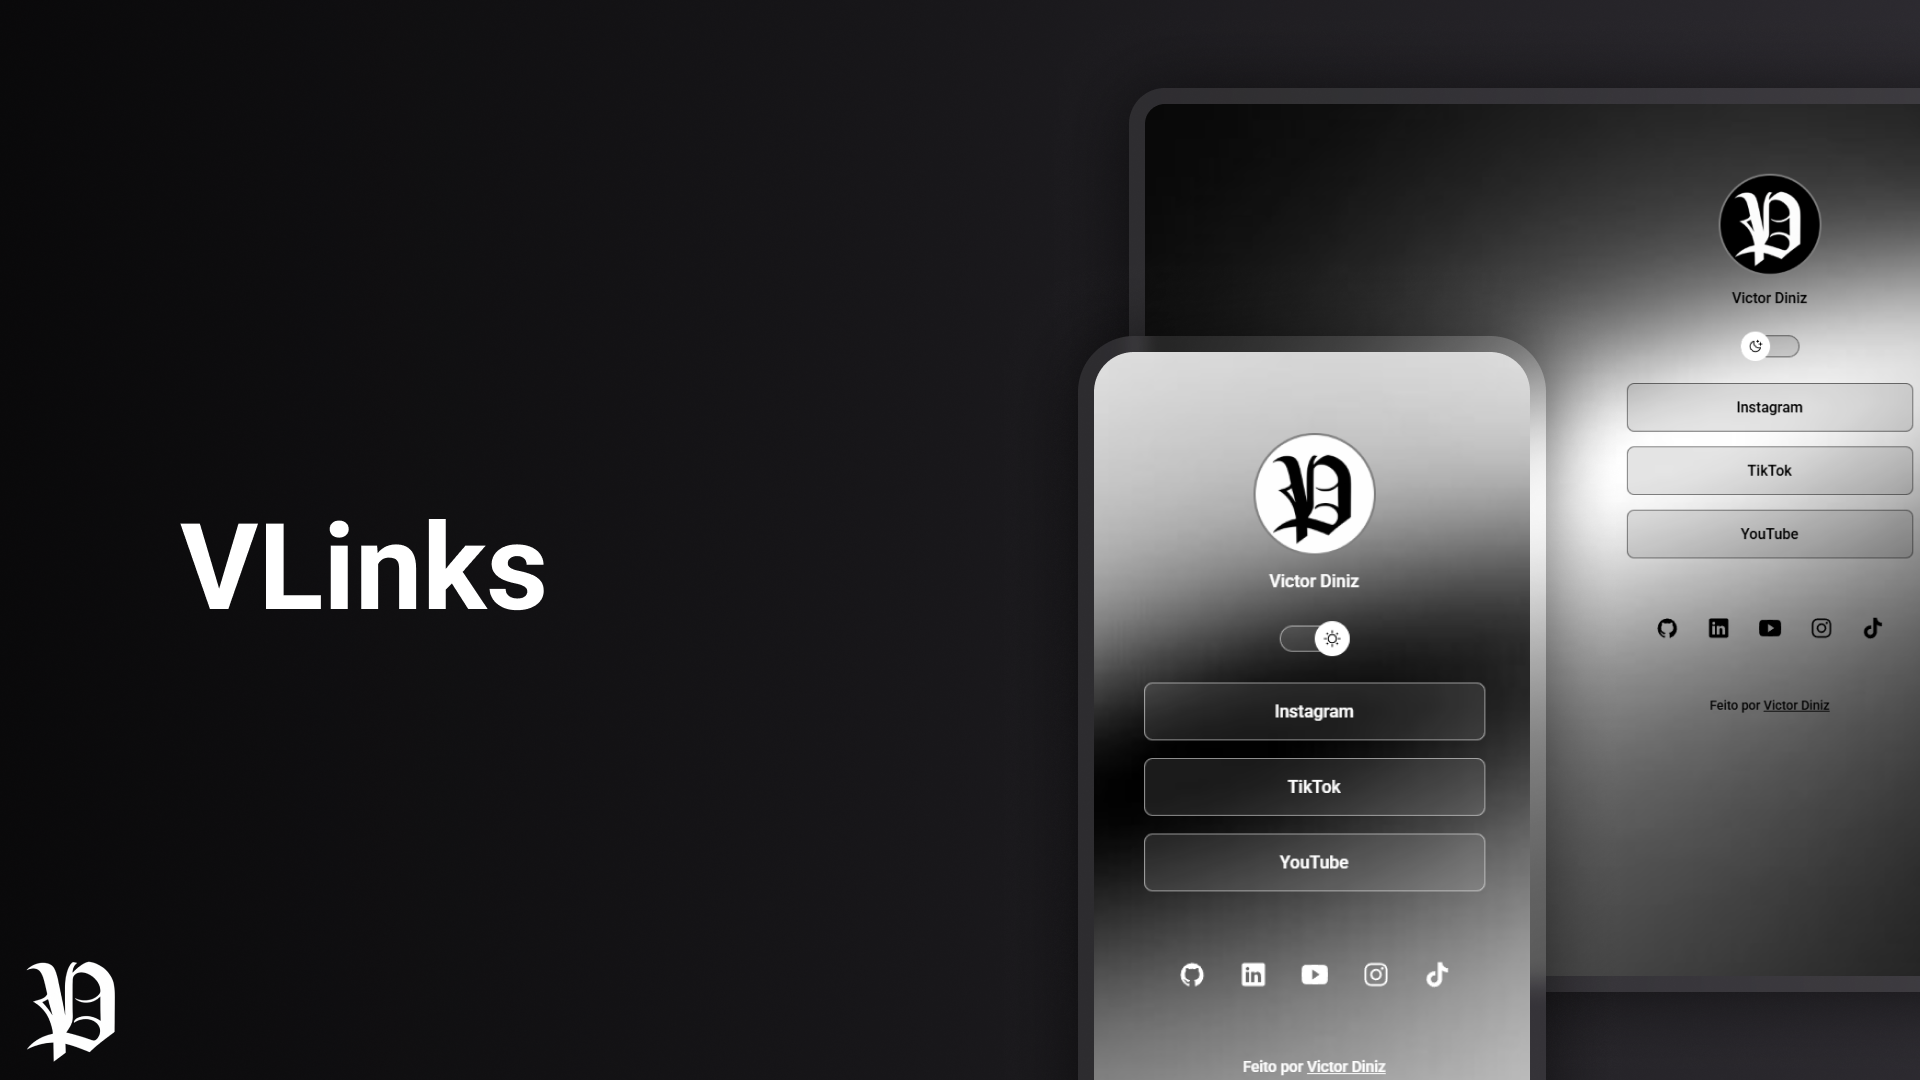
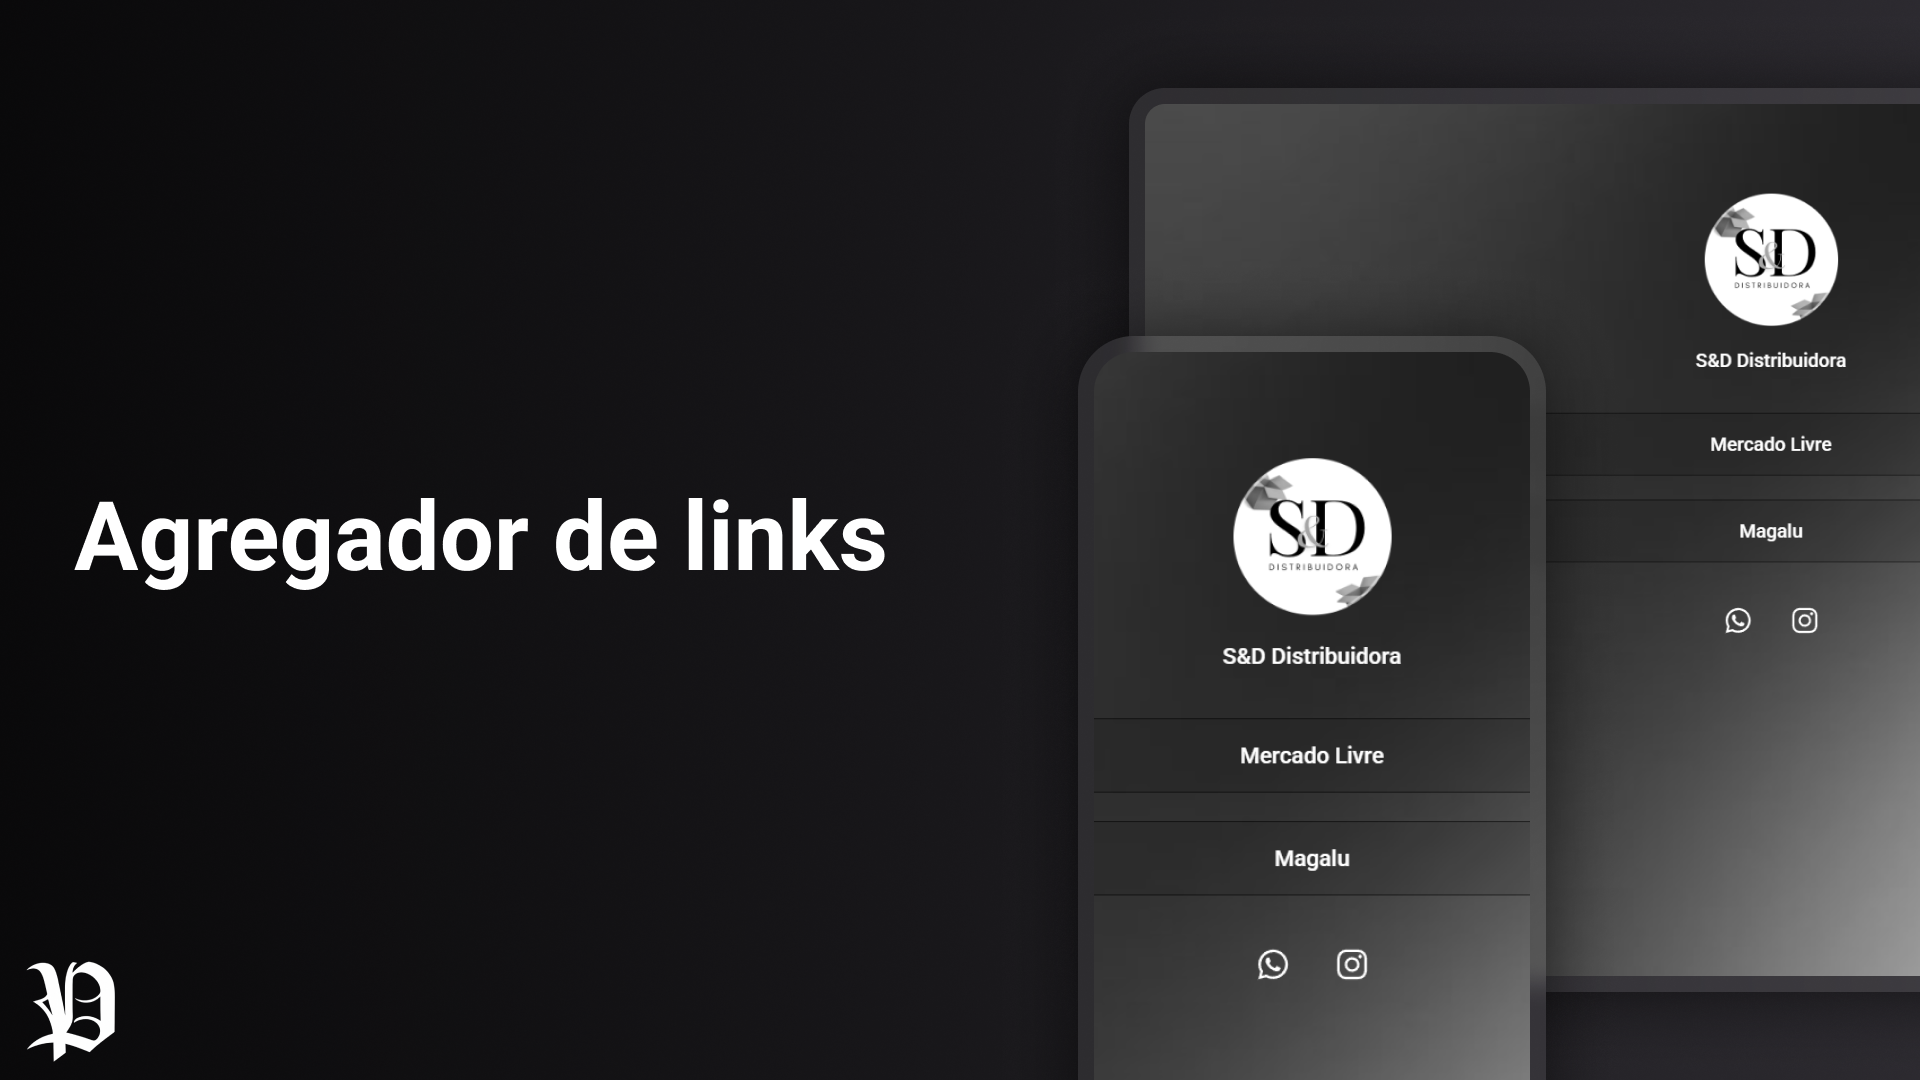
Alterações para a SD

Changed region(s): [[0.5625, 0.0917, 1.0, 1.0], [0.0312, 0.4583, 0.4688, 0.5806], [0.8438, 0.6417, 1.0, 0.9167]]

diff --git a/index.html b/index.html
@@ -1,81 +1,56 @@
-<!DOCTYPE html>
-<html lang="pt-br">
-  <head>
-    <link rel="preconnect" href="https://fonts.googleapis.com" />
-    <link rel="preconnect" href="https://fonts.gstatic.com" crossorigin />
-    <link
-      href="https://fonts.googleapis.com/css2?family=Roboto:wght@500&display=swap"
-      rel="stylesheet"
-    />
+  <!DOCTYPE html>
+  <html lang="pt-br">
+    <head>
+      <link rel="preconnect" href="https://fonts.googleapis.com" />
+      <link rel="preconnect" href="https://fonts.gstatic.com" crossorigin />
+      <link
+        href="https://fonts.googleapis.com/css2?family=Roboto:wght@500&display=swap"
+        rel="stylesheet"
+      />
 
-    <meta charset="UTF-8" />
-    <meta name="viewport" content="width=device-width, initial-scale=1.0" />
-    <title>VLinks</title>
-    <link rel="stylesheet" href="./style.css" />
-  </head>
-  <body>
-    <div id="container">
-      <div id="profile">
-        <img
-          src="./Assets/avatar.png"
-          alt="logo victor diniz com fundo preto"
-        />
-        <p>Victor Diniz</p>
-      </div>
-      <div id="switch" onclick="toggleMode()">
-        <button></button>
-        <span></span>
-      </div>
-      <ul>
-        <li>
-          <a href="https://www.instagram.com/victorhdnz_/" target="_blank"
-            >Instagram</a
-          >
-        </li>
+      <meta charset="UTF-8" />
+      <meta name="viewport" content="width=device-width, initial-scale=1.0" />
+      <title>S&D</title>
+      <link rel="stylesheet" href="./style.css" />
+    </head>
+    <body>
+      <div id="container">
+        <div id="profile">
+          <img
+            src="./Assets/avatar.png"
+            alt="logo victor diniz com fundo preto"
+          />
+          <p>S&D Distribuidora</p>
+    
+        <ul>
+          <li>
+            <a href="https://www.mercadolivre.com.br/pagina/seddistribuidora" target="_blank"
+              >Mercado Livre</a
+            >
+          </li>
 
-        <li>
-          <a href="https://tiktok.com/@victorhdnz" target="_blank">TikTok</a>
-        </li>
-        <li>
-          <a href="https://www.youtube.com/@victorhdnz" target="_blank"
-            >YouTube</a
-          >
-        </li>
-      </ul>
-      <div id="social-links">
-        <a href="https://github.com/victorhdnz" target="_blank">
-          <ion-icon name="logo-github"></ion-icon>
-        </a>
+          <li>
+            <a href="https://m.magazineluiza.com.br/lojista/seddistribuidora/" target="_blank">Magalu</a>
+          </li>
 
-        <a href="https://linkedin.com/in/victorhdnz" target="_blank">
-          <ion-icon name="logo-linkedin"></ion-icon>
-        </a>
+        </ul> 
+        <div id="social-links">
+          <a href="https://wa.me/553498714483" target="_blank">
+            <ion-icon name="logo-whatsapp"></ion-icon>
+          </a>
 
-        <a href="https://youtube.com/@victorhdnz" target="_blank">
-          <ion-icon name="logo-youtube"></ion-icon>
-        </a>
+          <a href="https://instagram.com/sed.distribuidoramg" target="_blank">
+            <ion-icon name="logo-instagram"></ion-icon>
+          </a>
 
-        <a href="https://instagram.com/victorhdnz_" target="_blank">
-          <ion-icon name="logo-instagram"></ion-icon>
-        </a>
-
-        <a href="https://tiktok.com/@victorhdnz" target="_blank">
-          <ion-icon name="logo-tiktok"></ion-icon>
-        </a>
-      </div>
-      <footer>
-        Feito por
-        <a href="https://github.com/victorhdnz" target="_blank">Victor Diniz</a>
-      </footer>
-    </div>
-    <script
-      type="module"
-      src="https://unpkg.com/ionicons@7.1.0/dist/ionicons/ionicons.esm.js"
-    ></script>
-    <script
-      nomodule
-      src="https://unpkg.com/ionicons@7.1.0/dist/ionicons/ionicons.js"
-    ></script>
-    <script src="./script.js"></script>
-  </body>
-</html>
+      <script
+        type="module"
+        src="https://unpkg.com/ionicons@7.1.0/dist/ionicons/ionicons.esm.js"
+      ></script>
+      <script
+        nomodule
+        src="https://unpkg.com/ionicons@7.1.0/dist/ionicons/ionicons.js"
+      ></script>
+      <script src="./script.js"></script>
+    </body>
+  </html>

diff --git a/style.css b/style.css
@@ -11,7 +11,7 @@
   --surface-color: rgba(0, 0, 0, 0.1);
   --surface-color-houver: rgba(0, 0, 0, 0.2);
   --highlight-color: rgba(0, 0, 0, 0.1);
-  --switch-bg-url: url(./Assets/moon-stars.svg);
+  
 }
 
 .light {
@@ -21,7 +21,7 @@
   --surface-color: rgba(255, 255, 255, 0.1);
   --surface-color-houver: rgba(255, 255, 255, 0.2);
   --highlight-color: rgba(255, 255, 255, 0.2);
-  --switch-bg-url: url(./Assets/sun.svg);
+ 
 }
 
 body {
@@ -54,54 +54,15 @@ body * {
   font-weight: 500;
   line-height: 24px;
   margin-top: 8px;
-}
-
-#switch {
-  position: relative;
-  width: 64px;
-  margin: 0 auto;
-  margin: 4px auto;
-}
-
-#switch button {
-  width: 32px;
-  height: 32px;
-  background: white var(--switch-bg-url) no-repeat center;
-  border: 0;
-  border-radius: 50%;
-  position: absolute;
-  top: 50%;
-  left: 0;
-  transform: translateY(-50%);
-  z-index: 1;
-  animation: slide-back 0.2s;
-}
-
-.light #switch button {
-  animation: slide-in 0.2s forwards;
-}
-
-#switch button:hover {
-  outline: 8px solid var(--highlight-color);
-}
-
-#switch span {
-  display: block;
-  width: 64px;
-  height: 24px;
-  background: var(--surface-color);
-  border: 1px solid var(--stroke-color);
-  backdrop-filter: blur (4px);
-  -webkit-backdrop-filter: blur(4px);
-  border-radius: 9999px;
+  margin: 12px;
 }
 
 ul {
   list-style: none;
   display: flex;
   flex-direction: column;
-  gap: 16px;
-  padding: 24px 0;
+  gap: 20px;
+  padding: 20px 0;
 }
 
 ul li a {
@@ -127,7 +88,7 @@ ul li a:hover {
 #social-links {
   display: flex;
   justify-content: center;
-  padding: 24px 0;
+  padding: 1px 0;
   font-size: 24px;
 }
 
@@ -153,10 +114,6 @@ footer {
 @media (min-width: 700px) {
   :root {
     --bg-url: url(./Assets/degrade-pc.png);
-  }
-
-  .light {
-    --bg-url: url(./Assets/degradebranco-pc.png);
   }
 }
 

diff --git a/readme.md b/readme.md
@@ -11,14 +11,12 @@ Esse projeto foi desenvolvido com as seguintes tecnologias:
 
 - HTML e CSS
 
-- JavaScript
-
 - Git e Github
 
 - Figma
 
 ## ⚙ Projeto
 
-O VLinks é um agregador de links para ser usado como cartão de visitas online.
+Agregador de links para  a distribuidora SD.
 
-[Acesse a versão final do projeto, online](https://victorhdnz.github.io/VLinks/)
+[Acesse a versão final do projeto, online](https://victorhdnz.github.io/SD/)
